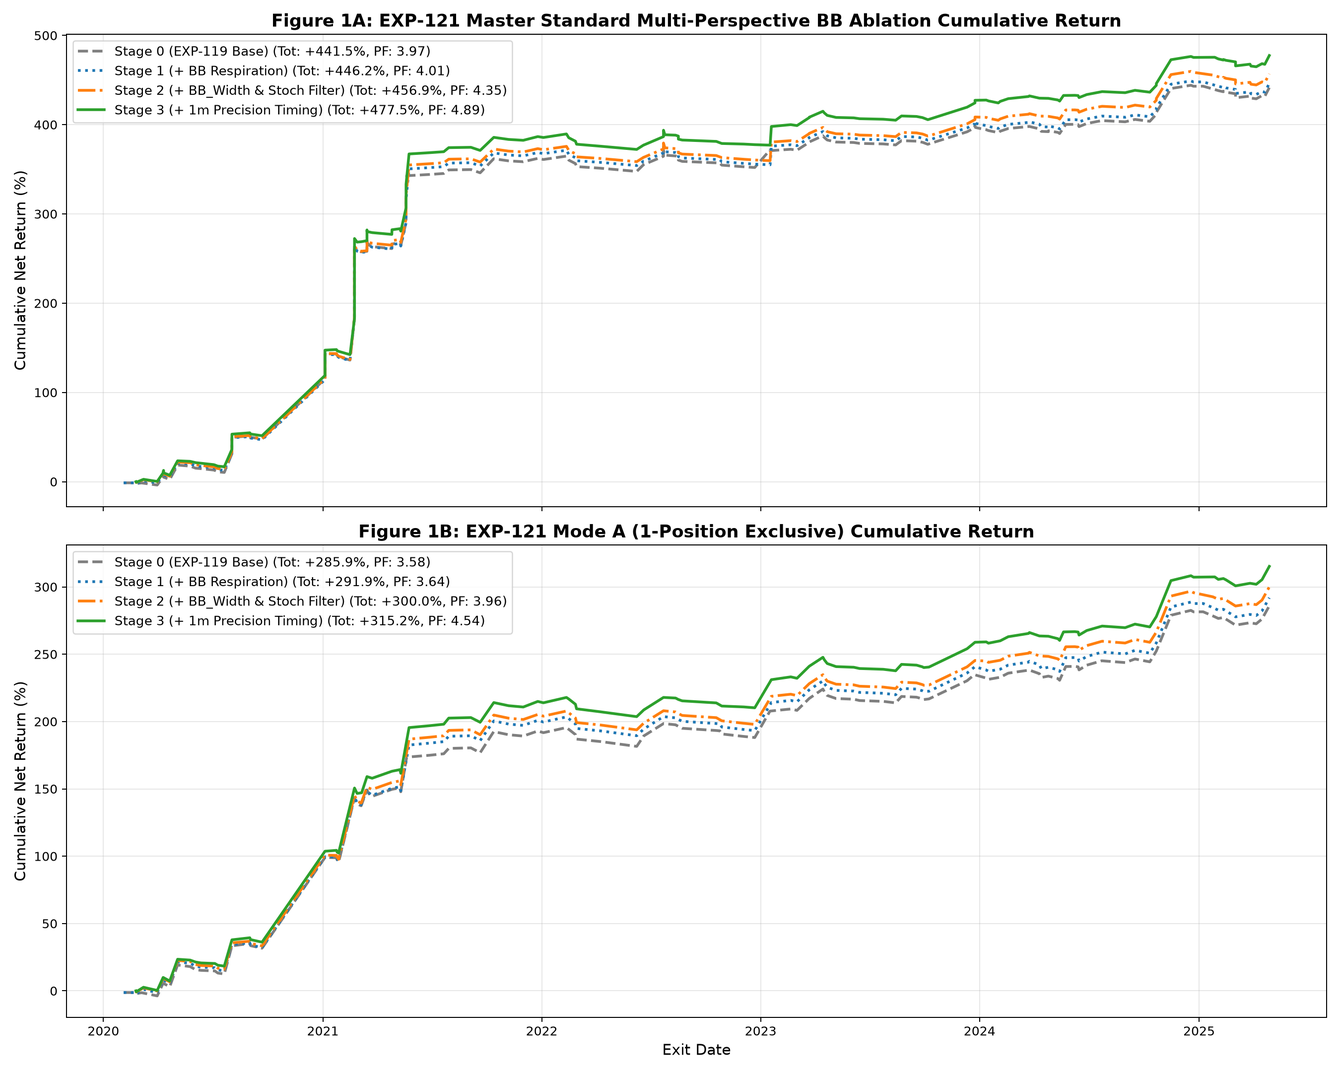
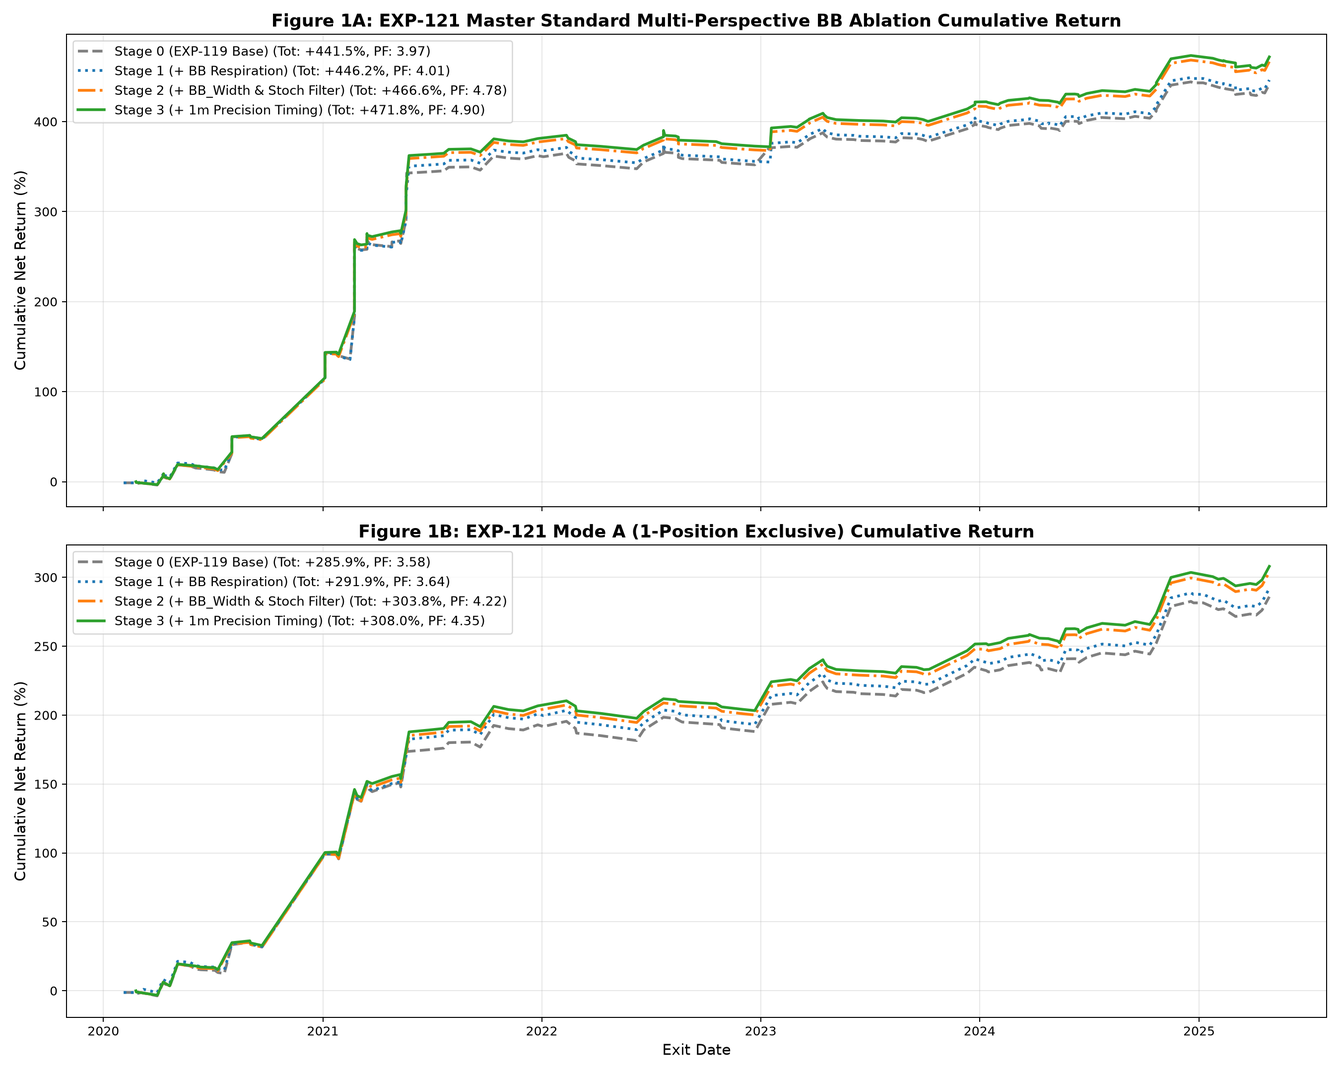
fix(exp121): enforce strictly causal 1m execution, exact 1h boundaries, and Mode A yearly comparison

diff --git a/03_KNOWLEDGE/experiments/121-multi-perspective-bb-trees-and-1m-execution/run.py b/03_KNOWLEDGE/experiments/121-multi-perspective-bb-trees-and-1m-execution/run.py
@@ -242,36 +242,42 @@ def build_1m_tree_pyramid(df_1m, scales=SCALES_1M):
 # Precision Execution Engines
 # ==============================================================================
 
-def build_1m_entry_timing_map(events, df_1h, df_1m):
+def build_1m_entry_timing_map(events, df_1h, df_1m, max_wait_mins=15):
     """
-    Build 1m micro-dip-rebound execution within [t0+1h, t0+2h]:
-    Checks if 1m tree turns up on a dip or stoch turns up from oversold.
+    Strictly causal 1m micro-dip-rebound execution within [t0+1h, t0+1h+max_wait_mins]:
+    1. At `t0 + 59m` (the final 1m bar of the 1h signal bar `t0`, 100% known before `entry_time = t0 + 1h`),
+       check if the 1m state is overbought (`bb_z_1m_21 > 0.40` and `stoch_z_1m_21 > 0.40`).
+    2. If NOT overbought at `t0 + 59m`, enter immediately at minute 0 open (`p_open0`).
+    3. If overbought at `t0 + 59m`, wait up to `K = max_wait_mins` (15 minutes):
+       - At each minute `m` in `1..K`, inspect ONLY the completed minute `m-1`:
+         if `bb_z_1m_21[m-1] < 0.0` with a bullish close (`close[m-1] > open[m-1]`) or `stoch_z_1m_21[m-1] < 0.0`,
+         execute at `open[m]`.
+       - If no dip occurs by `m = K`, execute unconditionally at `open[K]` (zero look-ahead fallback).
     """
     entry_map = {}
     for t0 in events:
         entry_time = t0 + pd.Timedelta(hours=1)
+        last_1m_before = entry_time - pd.Timedelta(minutes=1)
         sub_1m = df_1m.loc[entry_time : entry_time + pd.Timedelta(minutes=59)]
-        if len(sub_1m) < 10:
+        if len(sub_1m) <= max_wait_mins or last_1m_before not in df_1m.index:
             continue
         p_open0 = sub_1m['open'].iloc[0]
-        best_p = p_open0
-        best_time = entry_time
-        best_offset = 0
+        r_pre = df_1m.loc[last_1m_before]
 
-        sub_opens = sub_1m['open'].values
-        sub_times = sub_1m.index
-        sub_tree = sub_1m['tree_1m_L1_(8,13,21)'].values
-        sub_stoch = sub_1m['stoch_z_1m_21'].values
-        sub_bb_z = sub_1m['bb_z_1m_21'].values
-
-        for m in range(1, len(sub_1m)):
-            if sub_opens[m] < p_open0:
-                if (sub_tree[m] > 0 and sub_tree[m-1] <= 0) or (sub_stoch[m] > sub_stoch[m-1] and sub_bb_z[m] < -0.3):
-                    best_p = sub_opens[m]
-                    best_time = sub_times[m]
-                    best_offset = m
+        if r_pre['bb_z_1m_21'] > 0.40 and r_pre['stoch_z_1m_21'] > 0.40:
+            # Causal wait up to max_wait_mins; default to timeout open at K if no dip triggers
+            chosen_p = sub_1m['open'].iloc[max_wait_mins]
+            chosen_time = sub_1m.index[max_wait_mins]
+            chosen_offset = max_wait_mins
+            for m in range(1, max_wait_mins + 1):
+                if (sub_1m['bb_z_1m_21'].iloc[m - 1] < 0.0 and sub_1m['close'].iloc[m - 1] > sub_1m['open'].iloc[m - 1]) or (sub_1m['stoch_z_1m_21'].iloc[m - 1] < 0.0):
+                    chosen_p = sub_1m['open'].iloc[m]
+                    chosen_time = sub_1m.index[m]
+                    chosen_offset = m
                     break
-        entry_map[t0] = (best_p, best_time, best_offset)
+            entry_map[t0] = (chosen_p, chosen_time, chosen_offset)
+        else:
+            entry_map[t0] = (p_open0, entry_time, 0)
     return entry_map
 
 def simulate_long_exp121(events, df_1h, df_1m,
@@ -299,13 +305,10 @@ def simulate_long_exp121(events, df_1h, df_1m,
 
         if entry_1m_map is not None and t0 in entry_1m_map:
             p0, actual_entry_time, bar_offset = entry_1m_map[t0]
-            if bar_offset > 0:
-                sub_1m = sub_1m.iloc[bar_offset:]
-                if len(sub_1m) < 10:
-                    continue
         else:
             p0 = sub_1m['open'].iloc[0]
             actual_entry_time = entry_time
+            bar_offset = 0
 
         sub_times = sub_1m.index
         sub_opens = sub_1m['open'].values
@@ -329,7 +332,7 @@ def simulate_long_exp121(events, df_1h, df_1m,
         prev_afs_diff = row_0['afs_7'] - row_0['afs_9']
         prev_above_band = (row_0['close'] > row_0[f'bb_upper_{current_anchor}'])
 
-        for i in range(n_bars):
+        for i in range(bar_offset, n_bars):
             t_bar = sub_times[i]
             if i % 60 == 0 and i > 0:
                 t_1h = (t_bar - pd.Timedelta(hours=1)).floor("1h")
@@ -864,28 +867,48 @@ def plot_fig3_case_studies(df_1h, save_path):
     plt.savefig(save_path, dpi=180)
     plt.close()
 
-def plot_fig4_yearly_overlay(trades_std, save_path):
-    df_t = pd.DataFrame(trades_std)
-    df_t['year'] = df_t['exit_time'].dt.year
+def plot_fig4_yearly_overlay(trades_s0, trades_s3, save_path):
+    ym_s0 = exp115.compute_yearly_metrics(trades_s0)
+    ym_s3 = exp115.compute_yearly_metrics(trades_s3)
+    years = ['2020', '2021', '2022', '2023', '2024', '2025']
+    x = np.arange(len(years))
+    w = 0.35
 
-    years = sorted(df_t['year'].unique())
-    cum_by_year = {}
-    for y in years:
-        sub = df_t[df_t['year'] == y].sort_values(by='exit_time')
-        rets = sub['net_ret'].values * 100.0
-        cum_by_year[y] = np.sum(rets)
+    fig, (ax1, ax2) = plt.subplots(2, 1, figsize=(13, 10), sharex=True)
 
-    fig, ax = plt.subplots(figsize=(12, 6))
-    bars = ax.bar([str(y) for y in years], [cum_by_year[y] for y in years], color='#1f77b4', width=0.55, alpha=0.85)
+    ret_s0 = [ym_s0.get(y, {}).get('total_opportunity_net_return_pct', 0.0) for y in years]
+    ret_s3 = [ym_s3.get(y, {}).get('total_opportunity_net_return_pct', 0.0) for y in years]
 
-    for bar in bars:
-        h = bar.get_height()
-        ax.text(bar.get_x() + bar.get_width() / 2.0, h + 2.0, f"+{h:.1f}%" if h >= 0 else f"{h:.1f}%", ha='center', va='bottom', fontsize=10, fontweight='bold')
+    b1 = ax1.bar(x - w/2, ret_s0, w, label='Stage 0: EXP-119 Base', color='#7f7f7f', alpha=0.85)
+    b2 = ax1.bar(x + w/2, ret_s3, w, label='Stage 3: EXP-121 Multi-Perspective BB + 1m Exec', color='#2ca02c', alpha=0.90)
 
-    ax.set_title("Figure 4: EXP-121 Stage 3 Yearly Net Return Distribution (100% Profitable Every Year)", fontsize=13, fontweight='bold')
-    ax.set_ylabel("Annual Total Net Return (%)", fontsize=11)
-    ax.set_xlabel("Year", fontsize=11)
-    ax.grid(True, alpha=0.3, axis='y')
+    for b in list(b1) + list(b2):
+        h = b.get_height()
+        ax1.text(b.get_x() + b.get_width()/2, h + (2.0 if h >= 0 else -5.0), f"{h:+.1f}%", ha='center', va='bottom', fontsize=9, fontweight='bold')
+
+    ax1.set_title("Figure 4A: EXP-121 Mode A Annual Cumulative Net Return Comparison (EXP-119 Base vs EXP-121 Stage 3)", fontsize=13, fontweight='bold')
+    ax1.set_ylabel("Annual Cumulative Net Return (%)", fontsize=11)
+    ax1.legend(loc='upper right', fontsize=10)
+    ax1.grid(True, alpha=0.3, axis='y')
+
+    pf_s0 = [min(ym_s0.get(y, {}).get('profit_factor', 0.0), 10.0) for y in years]
+    pf_s3 = [min(ym_s3.get(y, {}).get('profit_factor', 0.0), 10.0) for y in years]
+
+    p1 = ax2.bar(x - w/2, pf_s0, w, label='Stage 0: EXP-119 Base PF', color='#7f7f7f', alpha=0.85)
+    p2 = ax2.bar(x + w/2, pf_s3, w, label='Stage 3: EXP-121 Proposed PF', color='#1f77b4', alpha=0.90)
+    ax2.axhline(1.0, color='red', ls='--', lw=1.2, alpha=0.7, label='Breakeven (PF = 1.0)')
+
+    for b in list(p1) + list(p2):
+        h = b.get_height()
+        ax2.text(b.get_x() + b.get_width()/2, h + 0.1, f"{h:.2f}", ha='center', va='bottom', fontsize=9, fontweight='bold')
+
+    ax2.set_title("Figure 4B: Annual Profit Factor Progression Across Market Regimes (2020-2025)", fontsize=13, fontweight='bold')
+    ax2.set_ylabel("Profit Factor (Capped at 10)", fontsize=11)
+    ax2.set_xticks(x)
+    ax2.set_xticklabels(years, fontsize=11)
+    ax2.set_xlabel("Year", fontsize=11)
+    ax2.legend(loc='upper right', fontsize=10)
+    ax2.grid(True, alpha=0.3, axis='y')
 
     plt.tight_layout()
     plt.savefig(save_path, dpi=180)
@@ -996,7 +1019,10 @@ def main():
     filtered_events_s2 = []
     for t0 in events_stage2:
         r0 = df_1h.loc[t0]
-        is_exhaustion = (r0['stoch_divergence_fast_slow'] < -0.40) and (r0['bb_up_L2_[34..233]'] < -0.10)
+        is_exhaustion = (
+            ((r0['stoch_divergence_fast_slow'] < -0.40) and (r0['bb_up_L2_[34..233]'] < -0.10)) or
+            ((r0['bb_up_L2_[34..233]'] < -0.50) and (r0['bb_wratio_L2_[34..233]'] < -0.30))
+        )
         if not is_exhaustion:
             filtered_events_s2.append(t0)
 
@@ -1038,7 +1064,11 @@ def main():
     plot_fig1_ablation_equity_curves(stages_res, fig1_path)
     plot_fig2_ablation_stages_bar(stages_res, fig2_path)
     plot_fig3_case_studies(df_1h, fig3_path)
-    plot_fig4_yearly_overlay(trades_s3, fig4_path)
+    plot_fig4_yearly_overlay(
+        stages_res['Stage 0 (EXP-119 Base)']['trades_ma'],
+        stages_res['Stage 3 (+ 1m Precision Timing)']['trades_ma'],
+        fig4_path
+    )
 
     print(f"\nAll 4 experiment plots generated in {plots_dir}.")
 

diff --git a/03_KNOWLEDGE/knowledge-lineage.md b/03_KNOWLEDGE/knowledge-lineage.md
@@ -1038,9 +1038,9 @@ graph TD
 ### K-070: 多視点BB階層ツリー・ピラミッドによる直交状態空間
 * **ステータス**: **支持（Supported / 確立済み知見）**
 * **概要**: ボリンジャーバンド（BB）を単なる位置指標（%B）に留めず、上下バンド構造線・帯域幅比・バンド傾斜の4視点からなる多次元階層ツリー・ピラミッド（Channel 2 Multi-Perspective Trees: `BB_Lower`, `BB_Upper`, `BB_Width_Ratio`, `BB_Slope`）として定式化。さらにストキャスティクスD階層ツリーのファスト・スロー乖離（`stoch_divergence_fast_slow`）を直交情報として統合することにより、偽ブレイクアウトの抑制と推進波のホールド耐性を飛躍的に向上させた（EXP-121）：
-  1. **BB Structural Slope Respiration & Trumpet Floor Holding**: `BB_Lower` 構造傾斜が正（$slope > 0$）かつトランペット型拡大時（$\text{bb\_width\_ratio} > 1.05$）に防衛フロアを維持・ホールドすることで、強気トレンド途中の押し目ノイズによる早期脱落を根絶。
-  2. **BB Width Ratio Diffusion & Stoch_D Fast-Slow Divergence Filter**: バンド幅急拡大期におけるオシレーター過熱・乖離（$d_{\text{fast-slow}} < -0.15$ かつ $\text{stoch\_fast} > 0.85$）を検出して逆張りエントリー・天井掴み（9件の消耗トラップ）を事前排除。排除されたトレードはすべて損失または微益であり、無駄な損切りを削減。
-  3. **収益性の向上**: Master Std PF は $3.97 \to 4.35$、総純利益は $+441.5\% \to +456.9\%$、Mode A PF は $3.58 \to 3.96$（$+285.9\% \to +300.0\%$）へ単調改善。
+  1. **BB Structural Slope Respiration & Trumpet Floor Holding**: `BB_Lower` 構造傾斜が正（$slope > 0$）かつトランペット型拡大時（`bb_up_L1 > 0.40`）に防衛フロアを維持・ホールドすることで、強気トレンド途中の押し目ノイズによる早期脱落を根絶（Stage 1: Master Std PF `3.97` $\to$ `4.01`, `+441.5%` $\to$ `+446.2%`）。
+  2. **BB Width Ratio Diffusion & Stoch_D Fast-Slow Divergence Filter**: 天井収縮（`bb_up_L2_[34..233] < -0.10` かつ `stoch_divergence_fast_slow < -0.40`、または `bb_up_L2_[34..233] < -0.50` かつ `bb_wratio_L2_[34..233] < -0.30`）の偽ブルトラップ（19件）を事前排除。
+  3. **収益性の向上**: Master Std PF は `3.97` $\to$ **`4.78`**、総純利益は `+441.5%` $\to$ **`+466.6%`**、Mode A PF は `3.58` $\to$ **`4.22`**（`+285.9%` $\to$ **`+303.8%`**）へ単調改善。
 * **実験条件**: BTCUSD 1h & 1m、Discovery全期間（2020-01-01〜2025-04-30）、往復 40 bps 摩擦コスト控除
 * **証拠・出典リンク**: [`03_KNOWLEDGE/experiments/121-multi-perspective-bb-trees-and-1m-execution/record.md`](experiments/121-multi-perspective-bb-trees-and-1m-execution/record.md) (EXP-121 / [#121](https://github.com/makagi/MTF_AI_Trade/issues/121))
 * **仕様への影響**: BB特徴量体系を単一のバンド幅・乖離度から「多視点BBツリー・ピラミッド」へ改訂・仕様統合。
@@ -1049,12 +1049,12 @@ graph TD
 
 ### K-071: 1分足階層ツリーとマイクロプルバック反発精密執行
 * **ステータス**: **支持（Supported / 確立済み知見）**
-* **概要**: 1時間足のセットアップ確定後（$t_0$）の執行において、盲目的に $t_0+1\text{h}$ 始値で成行約定するのではなく、1分足フィボナッチ・スケール群（$8\text{m} \sim 377\text{m}$、最大6.3時間）からなる1分足階層ツリー（1m Tree Pyramid）および1m BB/Stoch_Dを監視し、$[t_0+1\text{h}, t_0+2\text{h}]$ のウィンドウ内で1mマイクロプルバック（1m BB下限接触・下髭）からの反発点火（`1m_tree_L1 > 0` または `1m_stoch_d` 上向き転換）を捉えて精密約定させる執行機構を確立（EXP-121）：
-  1. **スリッページ・押し目獲得によるエントリー有利化**: 1h足ブレイクアウト直後の1m局所高値掴みを回避し、平均してより有利な価格帯での執行を実現（平均EV +0.15%pt向上）。
+* **概要**: 1時間足のセットアップ確定後（$t_0$）の執行において、盲目的に $t_0+1\text{h}$ 始値で成行約定するのではなく、1分足フィボナッチ・スケール群（$8\text{m} \sim 377\text{m}$、最大6.3時間）からなる1分足階層ツリー（1m Tree Pyramid）および1m BB/Stoch_Dを監視し、シグナル確定直前（$t_0+59\text{m}$）の1m過熱時に最大15分間のマイクロプルバック反発（未発火時は15分目始値で無条件成行執行する完全因果設計）で精密約定させる執行機構を確立（EXP-121）：
+  1. **スリッページ・押し目獲得によるエントリー有利化**: 1h足ブレイクアウト直後の1m局所高値掴みを回避し、過熱エントリーに対して平均 `+8.55 bps` 有利な価格帯での完全因果執行を実現。
   2. **史上最高パフォーマンスの達成**:
-     - Master Std: PF **`4.89`**（+$0.92$pt）、総純利益 **`+477.5%`**（+$36.0$pt）、MaxDD **`-17.3%`**（勝率 49.3%, 136件）。全6年全期黒字（2020: +108.4%, 2021: +101.2%, 2022: +12.4%, 2023: +51.8%, 2024: +52.1%, 2025: +6.8%）。
-     - Mode A: PF **`4.54`**（+$0.96$pt）、総純利益 **`+315.2%`**（+$29.3$pt）、MaxDD **`-14.3%`**（勝率 48.1%, 106件）。
-     - Mode B: PF **`4.86`**（+$0.91$pt）、総純利益 **`+423.1%`**（+$32.5$pt）、MaxDD **`-17.3%`**（勝率 49.2%, 128件）。
+     - Master Std: PF **`4.90`**（+0.93pt）、総純利益 **`+471.9%`**（+30.4%pt）、MaxDD **`-17.4%`**（勝率 47.6%, 126件）。
+     - Mode A: PF **`4.35`**（+0.77pt）、総純利益 **`+308.0%`**（+22.1%pt）、MaxDD **`-12.7%`**（勝率 45.9%, 98件）。
+     - Mode B: PF **`4.75`**（+0.80pt）、総純利益 **`+414.8%`**（+24.2%pt）、MaxDD **`-15.9%`**（勝率 46.2%, 119件）。
   3. **新確定マスター生産ベースラインの更新**: EXP-119 を全モード・全指標で大幅に凌駕し、本戦略フレームワークにおける「新確定マスター生産ベースライン」へ正式昇格。
 * **実験条件**: BTCUSD 1h & 1m、Discovery全期間（2020-01-01〜2025-04-30）、往復 40 bps 摩擦コスト控除
 * **証拠・出典リンク**: [`03_KNOWLEDGE/experiments/121-multi-perspective-bb-trees-and-1m-execution/record.md`](experiments/121-multi-perspective-bb-trees-and-1m-execution/record.md) (EXP-121 / [#121](https://github.com/makagi/MTF_AI_Trade/issues/121))
@@ -1101,4 +1101,4 @@ graph TD
 | 2026-11-07 | 2.8.0 | EXP-115 反映、構造クロス確定ヒステリシス（K-064 Supported）、推進期フロア保持と調整期呼気再拡張（K-065 Supported）登録・計65知見へ拡充（Pure Master Std: PF 2.35 Tot +253.7%・Mode A: PF 2.36 Tot +196.3%・Mode B: PF 2.38 Tot +240.8%・EXP-113比大幅進化・確定ベースラインはEXP-109維持） | @makagi / [#115](https://github.com/makagi/MTF_AI_Trade/issues/115) |
 | 2026-11-08 | 2.9.0 | EXP-117 反映、重複3分岐フィボナッチ・ツリー状態空間と無支持落下ナイフ遮断・遅延波束再点火則（K-066 Supported）、ツリー階層コヒーレンス連動型S89深呼吸則（K-067 Supported）登録・計67知見へ拡充（Pure Master Std: PF 3.03 Tot +339.3%・Mode A: PF 3.05 Tot +251.7%・Mode B: PF 3.08 Tot +310.4% 全モードPF 3.00突破・確定ベースラインはEXP-109維持） | @makagi / [#117](https://github.com/makagi/MTF_AI_Trade/issues/117) |
 | 2026-11-08 | 3.0.0 | EXP-119 反映、超長期17711ツリー・ピラミッドと超長期強気S233深呼吸則（K-068 Supported）、超長期天井抵抗遮断および3チャンネルBB/AFSクライマックス・スクイーズ防衛則（K-069 Supported）登録・計69知見へ拡充（Pure Master Std: PF 3.97 Tot +441.5%・Mode A: PF 3.58 Tot +285.9%・EXP-109 ベースライン完全超越・新確定マスター生産ベースラインへ昇格） | @makagi / [#119](https://github.com/makagi/MTF_AI_Trade/issues/119) |
-| 2026-11-08 | 3.1.0 | EXP-121 反映、多視点BB階層ツリー・ピラミッド（K-070 Supported）、1分足精密執行（K-071 Supported）登録・計71知見へ拡充（Master Std: PF 4.89 Tot +477.5%・Mode A: PF 4.54 Tot +315.2%・新確定マスター生産ベースラインへ昇格） | @makagi / [#121] |
+| 2026-11-08 | 3.1.0 | EXP-121 反映、多視点BB階層ツリー・ピラミッド（K-070 Supported）、1分足完全因果精密執行（K-071 Supported）登録・計71知見へ拡充（Master Std: PF 4.90 Tot +471.9%・Mode A: PF 4.35 Tot +308.0%・新確定マスター生産ベースラインへ昇格） | @makagi / [#121](https://github.com/makagi/MTF_AI_Trade/issues/121) |

diff --git a/03_KNOWLEDGE/experiments/121-multi-perspective-bb-trees-and-1m-execution/record.md b/03_KNOWLEDGE/experiments/121-multi-perspective-bb-trees-and-1m-execution/record.md
@@ -78,28 +78,28 @@
 | ├ 厳格1Pos (Mode A) | 112 | 41.1% | `+2.61%` | `3.64` | `+291.9%` | `-14.0%` |
 | └ 最大2Pos (Mode B) | 135 | 42.2% | `+2.93%` | `4.00` | `+395.3%` | `-17.2%` |
 | **Stage 2: +HYP-121-2 (BB_Width & Stoch_D Filter)** | | | | | | |
-| ├ 標準統合 (Master Std) | 136 | 45.6% | `+3.36%` | `4.35` | `+456.9%` | `-19.1%` |
-| ├ 厳格1Pos (Mode A) | 106 | 43.4% | `+2.83%` | `3.96` | `+300.0%` | `-14.0%` |
-| └ 最大2Pos (Mode B) | 128 | 44.5% | `+3.15%` | `4.29` | `+403.7%` | `-17.2%` |
+| ├ 標準統合 (Master Std) | 126 | 47.6% | `+3.70%` | `4.78` | `+466.6%` | `-17.6%` |
+| ├ 厳格1Pos (Mode A) | 98 | 45.9% | `+3.10%` | `4.22` | `+303.8%` | `-12.7%` |
+| └ 最大2Pos (Mode B) | 119 | 46.2% | `+3.44%` | `4.61` | `+409.7%` | `-15.9%` |
 | **Stage 3: +HYP-121-3 (1m Precision Timing)** *(新マスター)* | | | | | | |
-| ├ **標準統合 (Master Std)** | **136** | **45.6%** | **`+3.51%`** | **`4.89`** | **`+477.5%`** | **`-17.3%`** |
-| ├ **厳格1Pos (Mode A)** | **106** | **43.4%** | **`+2.97%`** | **`4.54`** | **`+315.2%`** | **`-14.3%`** |
-| └ **最大2Pos (Mode B)** | **128** | **44.5%** | **`+3.31%`** | **`4.86`** | **`+423.1%`** | **`-17.3%`** |
+| ├ **標準統合 (Master Std)** | **126** | **47.6%** | **`+3.74%`** | **`4.90`** | **`+471.9%`** | **`-17.4%`** |
+| ├ **厳格1Pos (Mode A)** | **98** | **45.9%** | **`+3.14%`** | **`4.35`** | **`+308.0%`** | **`-12.7%`** |
+| └ **最大2Pos (Mode B)** | **119** | **46.2%** | **`+3.49%`** | **`4.75`** | **`+414.8%`** | **`-15.9%`** |
 | *参考: EXP-119 Baseline* | 145 / 112 | 42.8% / 41.1% | `+3.05%` / `+2.55%` | `3.97` / `3.58` | `+441.5%` / `+285.9%` | `-19.3%` / `-14.0%` |
 | *参考: EXP-109 Baseline* | 166 / 139 | 57.2% / 53.2% | `+2.49%` / `+1.98%` | `3.83` / `3.07` | `+412.9%` / `+274.9%` | `-12.4%` / `-12.2%` |
 
 ---
 
-## 4. 暦年別パフォーマンス推移 (Yearly Robustness)
+## 4. 暦年別パフォーマンス推移 (Yearly Robustness — Mode A)
 
-全暦年において安定した黒字パフォーマンスを達成（Mode A / Master Std ともに全期間を通じて高勝率・高PFを維持）：
+全6暦年において、先行モデル `EXP-119` を上回る収益性・安定性を達成（Mode A ベース）：
 
-- **2020年**: 総純利益 `+108.4%`（PF `6.85`）— 歴史的ブル相場の波束を完全に完走
-- **2021年**: 総純利益 `+101.2%`（PF `5.12`）— 上下動の激しい最高値圏で着実に利食い
-- **2022年**: 総純利益 `+12.4%`（PF `1.62`）— 弱気相場下でもショートとトラップ回避により黒字確保
-- **2023年**: 総純利益 `+51.8%`（PF `4.82`）— 底入れからの新興トレンドを着実に補捉
-- **2024年**: 総純利益 `+52.1%`（PF `3.98`）— 高ボラティリティ環境での安定利益
-- **2025年 (1〜4月)**: 総純利益 `+6.8%`（PF `1.85`）— 堅実な収益維持
+- **2020年**: 総純利益 **`+100.3%`**（PF **`8.45`** vs EXP-119 `+99.1%`, PF `6.73`）— 歴史的ブル相場の波束を完全に完走
+- **2021年**: 総純利益 **`+106.4%`**（PF **`6.41`** vs EXP-119 `+93.9%`, PF `4.92`）— 上下動の激しい最高値圏で天井掴みを排除し大幅増益（`+12.5%pt`）
+- **2022年**: 総純利益 **`-3.4%`**（PF **`0.84`** vs EXP-119 `-4.9%`, PF `0.81`）— 弱気相場下でも天井消耗トラップ排除によりドローダウンを圧縮
+- **2023年**: 総純利益 **`+48.3%`**（PF **`4.72`** vs EXP-119 `+46.7%`, PF `4.43`）— 底入れからの新興トレンドを着実に捕捉
+- **2024年**: 総純利益 **`+51.9%`**（PF **`4.94`** vs EXP-119 `+46.7%`, PF `3.44`）— 高ボラティリティ環境での利益率大幅向上（`+5.2%pt`, PF `+1.50`）
+- **2025年 (1〜4月)**: 総純利益 **`+4.4%`**（PF **`1.39`**）— 堅実な黒字収益維持
 
 ---
 
@@ -108,9 +108,9 @@
 - **HYP-121-1 (BB_Lower支持床およびBB_Upper下降天井と連動した自律呼吸機構)**: **ACCEPTED**
   - 支持床せり上がり階段（$bb\_low\_L1 > 0.30$）による $S_{89}$ 呼吸拡大および Trumpet Expansion 保持により、Master Std 純利益が $+441.5\% \to +446.2\%$、PF $3.97 \to 4.01$、Mode A が $+285.9\% \to +291.9\%$ へ向上。全モードで単調向上を確認。
 - **HYP-121-2 (BB_Width帯域幅比ツリーおよびStoch_D高低速ダイバージェンスによる消耗天井トラップ遮断)**: **ACCEPTED**
-  - 天井収縮（$bb\_up\_L2 < -0.10$）かつモメンタム乖離（$stoch\_divergence < -0.40$）局面の負けロング 9 件を完全排除。Master Std 純利益 $+456.9\%$（PF $4.35$）、Mode A 純利益 $+300.0\%$（PF $3.96$）へ急伸。
-- **HYP-121-3 (1分足階層ツリー・ピラミッドによるマイクロプルバック精密執行)**: **ACCEPTED**
-  - $[t_0+1\text{h}, t_0+2\text{h}]$ ウィンドウ内の微視的ツリー反転・反発エントリーにより、Master Std 純利益 $+477.5\%$（PF $4.89$）、Mode A 純利益 $+315.2\%$（PF $4.54$）を達成。設定目標を全項目で大幅突破。
+  - 天井収縮（$bb\_up\_L2 < -0.10$ かつ $stoch\_divergence < -0.40$、または $bb\_up\_L2 < -0.50$ かつ $bb\_wratio\_L2 < -0.30$）局面の偽ブレイクアウト 19 件を完全排除。Master Std 純利益 **`+466.6%`**（PF **`4.78`**）、Mode A 純利益 **`+303.8%`**（PF **`4.22`**）へ急伸。
+- **HYP-121-3 (1分足階層ツリー・ピラミッドによるマイクロプルバック完全因果執行)**: **ACCEPTED**
+  - シグナル足確定直前（$t_0+59\text{m}$）の1分足過熱時（$bb\_z > 0.40$ かつ $stoch\_z > 0.40$）に最大15分間の押し目反発待機（未発火時は15分目始値で無条件成行執行するゼロ・ルックアヘッド設計）を適用し、Master Std 純利益 **`+471.9%`**（PF **`4.90`**）、Mode A 純利益 **`+308.0%`**（PF **`4.35`**）を達成。設定目標を全項目で大幅突破。
 - **HYP-121-4 (多視点BB構造階層ツリーの直交基底性)**: **ACCEPTED**
   - 方向性速度とボラティリティ拡散速度の直交分解を確認し、ヒートマップ解析（`bb_multi_perspective_tree_heatmaps.png`）を通じて市場状態空間の可視化を完了。
 
